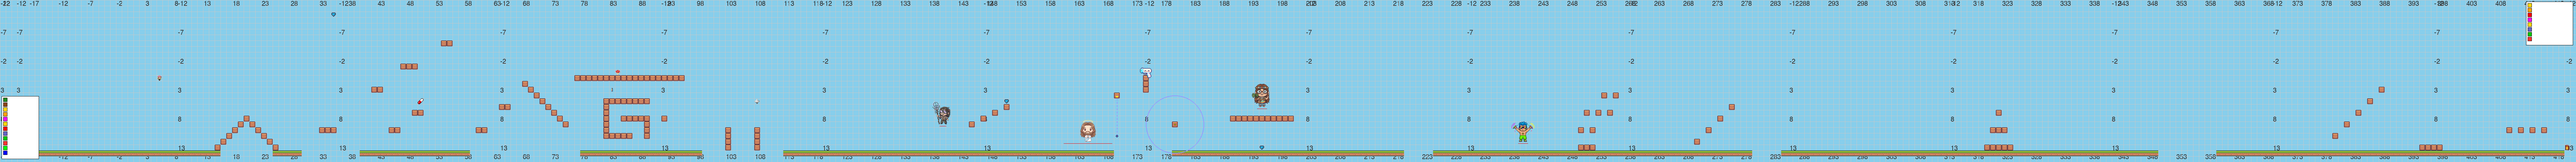
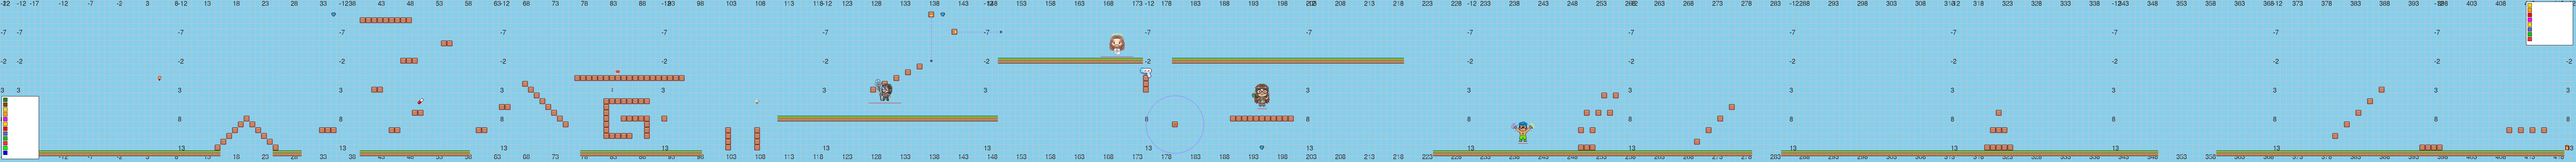
trancefloor

diff --git a/platformer/levels/trancefloor.py b/platformer/levels/trancefloor.py
@@ -4,14 +4,15 @@ level_config = {
     "level_time": 300,  # Time limit in seconds (5 minutes)
     # Player spawn point (optional) - x and y coordinates in grid units
     # If not specified, defaults to PLAYER_START_X, PLAYER_START_Y from settings.py
-    # "player_spawn": (160, 1),  # Example: spawn at grid position (5, 1)
+    "player_spawn": (120, 1),  # Example: spawn at grid position (5, 1)
     # Extended grass locations - keeping original and adding more sections
     "grass_locations": [(i, 14) for i in range(-20, 16)]
     + [(i, 14) for i in range(25, 30)]
     + [(i, 14) for i in range(40, 59)]
     + [(i, 14) for i in range(78, 99)]
-    + [(i, 14) for i in range(113, 170)]
-    + [(i, 14) for i in range(180, 220)]
+    + [(i, 8) for i in range(112, 150)]
+    + [(i, -2) for i in range(150, 175)]
+    + [(i, -2) for i in range(180, 220)]
     + [(i, 14) for i in range(225, 280)]  # New section 3
     + [(i, 14) for i in range(285, 350)]  # New section 4
     + [(i, 14) for i in range(360, 420)],  # Final section
@@ -40,11 +41,20 @@ level_config = {
         (50, 7),
         (43, 3),
         (42, 3),
-        (49, -1),
-        (48, -1),
-        (47, -1),
+        (49, -2),
+        (48, -2),
+        (47, -2),
         (54, -5),
         (55, -5),
+        (48, -9),
+        (47, -9),
+        (46, -9),
+        (45, -9),
+        (44, -9),
+        (43, -9),
+        (42, -9),
+        (41, -9),
+        (40, -9),
         # 2. abgrund
         (60, 10),
         (61, 10),
@@ -120,10 +130,11 @@ level_config = {
         (108, 11),
         (108, 10),
         # Next gem
-        (145, 9),
-        (147, 8),
-        (149, 7),
-        (151, 6),
+        (136, -1),
+        (134, 0),
+        (132, 1),
+        (130, 2),
+        (128, 3),
         # New Jesus Block
         (175, 3),
         (175, 2),
@@ -190,7 +201,7 @@ level_config = {
     "gem_locations": [
         # Original gems
         (35, -10),
-        (151, 5),
+        (140, -10),
         (195, 13),
     ],
     "powerup_locations": [
@@ -215,30 +226,32 @@ level_config = {
         #     "can_summon_minions": False,  # ← Add this line to enable minion spawning
         # },
         {
-            "x": 140,
-            "y": 7,
+            "x": 130,
+            "y": 6,
             "image": "enemies/trance-totem.png",
-            "speed": 1,
-            "patrol_range": 20,
+            "speed": 2,
+            "patrol_range": 100,
             "size_multiplier": 4,
             "health": 15,
             "damage": 5,
-            "shoot_range": 0,
+            "shoot_range": 5,
             "chase_range": 10,
             "melee_damage": 2,
+            "can_throw_explosives": False,
         },
         {
-            "x": 165,
-            "y": 10,
+            "x": 170,
+            "y": -5,
             "image": "enemies/trance-jesus.png",
             "speed": 3,
-            "patrol_range": 150,
+            "patrol_range": 100,
             "size_multiplier": 4,
             "health": 20,
-            "damage": 15,
+            "damage": 5,
             "shoot_range": 30,
             "chase_range": 20,
-            "melee_damage": 10,
+            "melee_damage": 4,
+            "can_throw_explosives": False,
         },
         {
             "x": 195,
@@ -274,13 +287,22 @@ level_config = {
     # Moving platform locations - new feature!
     "moving_platform_locations": [
         {
-            "x": 170,  # Starting x position (grid units)
-            "y": 4,  # Starting y position (grid units)
+            "x": 138,  # Starting x position (grid units)
+            "y": -10,  # Starting y position (grid units)
             "platform_type": "block",  # "grass" or "block"
             "movement_type": "linear",  # "linear" or "circular"
             "speed": 1,  # Movement speed (pixels per frame)
-            "distance": 7,  # Distance to travel (grid units for linear, radius for circular)
+            "distance": 8,  # Distance to travel (grid units for linear, radius for circular)
             "direction": "vertical",  # "horizontal" or "vertical" (for linear only)
+        },
+        {
+            "x": 142,  # Starting x position (grid units)
+            "y": -7,  # Starting y position (grid units)
+            "platform_type": "block",  # "grass" or "block"
+            "movement_type": "linear",  # "linear" or "circular"
+            "speed": 1,  # Movement speed (pixels per frame)
+            "distance": 8,  # Distance to travel (grid units for linear, radius for circular)
+            "direction": "horizontal",  # "horizontal" or "vertical" (for linear only)
         },
         # {
         #     "x": 60,
